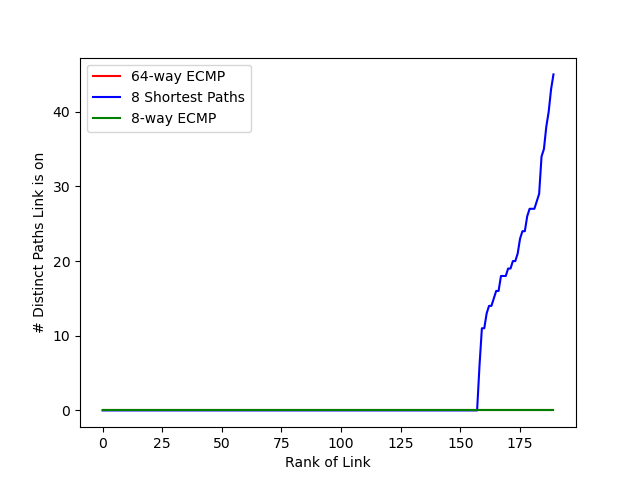
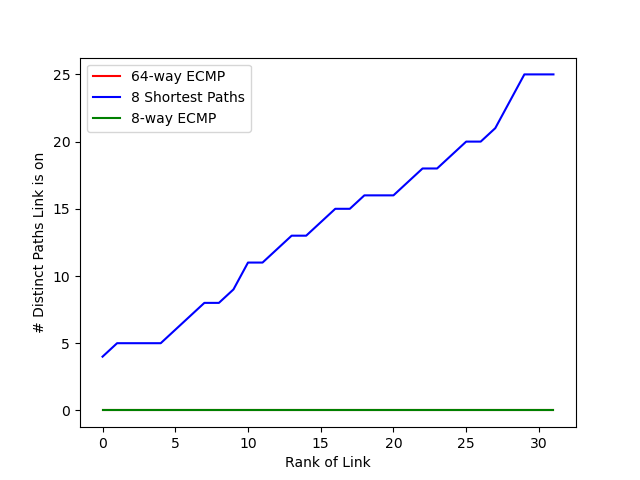
figure 9

diff --git a/lab2/reproduce_9.py b/lab2/reproduce_9.py
@@ -25,9 +25,13 @@ count_ecmp64 = {}
 
 def handleKSP(paths, ksp_value):
     for path in paths[:ksp_value]:
-        links = [(min(x.id, y.id), max(x.id, y.id)) for x, y in zip(path ,path[1::])]
+        #links = [(min(x.id, y.id), max(x.id, y.id)) for x, y in zip(path ,path[1::])]
+        links = [(x.id, y.id) for x, y in zip(path ,path[1::])]
         for link in links:
-            count_ksp[link] += 1
+            try:
+                count_ksp[link] += 1
+            except KeyError:
+                count_ksp[(link[1], link[0])] += 1
 
 
 def handleECMP8way(paths):
@@ -36,10 +40,15 @@ def handleECMP8way(paths):
     for path in paths:
         if len(path) == len_shortest:
             if ecmp_val >= 0:
-                links = [(min(x.id, y.id), max(x.id, y.id)) for x, y in zip(path ,path[1::])]
+                #links = [(min(x.id, y.id), max(x.id, y.id)) for x, y in zip(path ,path[1::])]
+                links = [(x.id, y.id) for x, y in zip(path ,path[1::])]
                 for link in links:
-                    count_ecmp8[link] += 1
+                    try:
+                        count_ecmp8[link] += 1
+                    except KeyError:
+                        count_ecmp8[(link[1], link[0])] += 1
                     ecmp_val -= 1
+
 
 def handleECMP64way(paths):
     len_shortest = len(paths[0])
@@ -47,9 +56,13 @@ def handleECMP64way(paths):
     for path in paths:
         if len(path) == len_shortest:
             if ecmp_val >= 0:
-                links = [(min(x.id, y.id), max(x.id, y.id)) for x, y in zip(path ,path[1::])]
+                #links = [(min(x.id, y.id), max(x.id, y.id)) for x, y in zip(path ,path[1::])]
+                links = [(x.id, y.id) for x, y in zip(path ,path[1::])]
                 for link in links:
-                    count_ecmp64[link] += 1
+                    try:
+                        count_ecmp64[link] += 1
+                    except KeyError:
+                        count_ecmp64[(link[1], link[0])] += 1
                     ecmp_val -= 1
 
 
@@ -70,23 +83,28 @@ if __name__ == "__main__":
     num_switches = int(num_ports * num_ports * 5 / 4)
 
     jf_topo = topo.Jellyfish(num_servers, num_switches, num_ports)
-    jf_switches_links_ids = [(a.id, b.id) for idx, a in enumerate(jf_topo.switches) for b in jf_topo.switches[idx + 1:]]
-    jf_switches_links_nodes = [(a, b) for idx, a in enumerate(jf_topo.switches) for b in jf_topo.switches[idx + 1:]]
-    init_counters(jf_switches_links_ids)
+    switches_pairs = [(a, b) for idx, a in enumerate(jf_topo.switches) for b in jf_topo.switches[idx + 1:]]
 
+    edges = set()
 
-    result = topo.ksp_yen(jf_topo.switches + jf_topo.servers, jf_topo.switches[0], jf_topo.switches[1], 8)
-    for route in result:
-        print(str(route['cost']) + ': ', end='')
-        for node in route['path']:
-            print(str(node.type) + str(node.id) + ' -> ', end='')
-        print('')
-
+    for switch in jf_topo.switches:
+        for edge in switch.edges:
+            if edge.lnode.id == edge.rnode.id:
+                continue
+            edges.add((edge.lnode.id, edge.rnode.id))
     
-    for idx, pair in enumerate(jf_switches_links_nodes):
+    init_counters(edges)
+    print(count_ksp)
+    
+    for pair in switches_pairs:
         print("Pair" + str(pair[0].id) + "/" + str(pair[1].id))
         result = topo.ksp_yen(jf_topo.switches + jf_topo.servers, pair[0], pair[1], 8)
         paths = [route["path"] for route in result]
+        for route in result:
+            print(str(route['cost']) + ': ', end='')
+            for node in route['path']:
+                print(str(node.type) + str(node.id) + ' -> ', end='')
+            print('')
         handleKSP(paths, 8)
         handleECMP8way(paths)
         handleECMP64way(paths)
